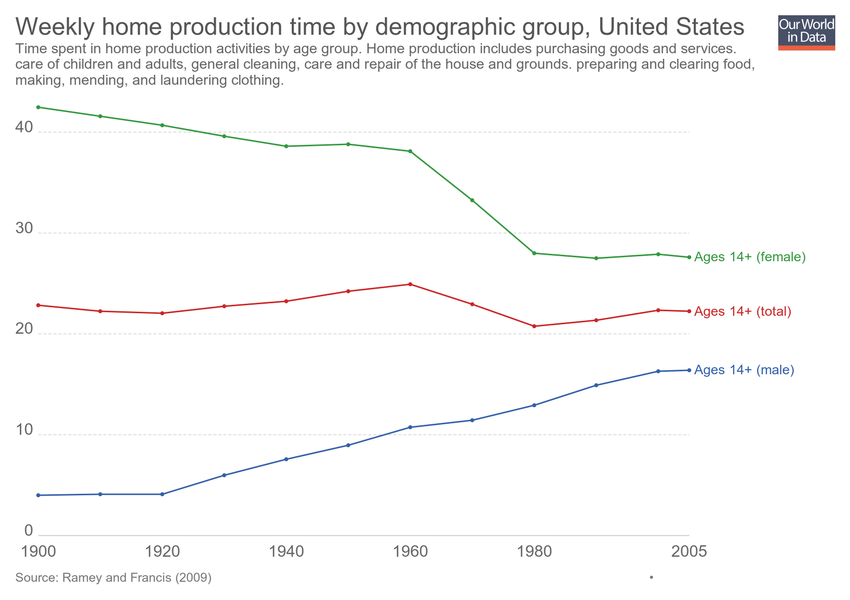
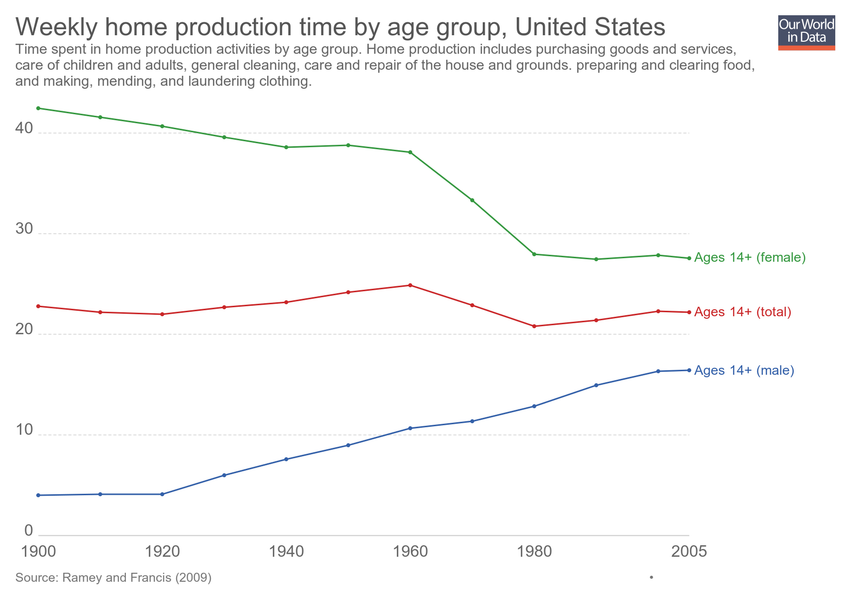
Updating chart weekly-home-production-time-by-demographic-group-united-states

diff --git a/grapher/weekly-home-production-time-by-demographic-group-united-states.html b/grapher/weekly-home-production-time-by-demographic-group-united-states.html
@@ -1,4 +1,4 @@
-<!doctype html><html><head><meta name="viewport" content="width=device-width, initial-scale=1" /><title>Weekly home production time by demographic group, United States - Our World in Data</title><meta name="description" content="Time spent in home production activities by age group. Home production includes purchasing goods and services. care of children and adults, general cleaning, care and repair of the house and grounds. preparing and clearing food, making, mending, and laundering clothing. " /><link rel="canonical" href="https://ourworldindata.org/grapher/weekly-home-production-time-by-demographic-group-united-states" /><meta property="fb:app_id" content="1149943818390250" /><meta property="og:url" content="https://ourworldindata.org/grapher/weekly-home-production-time-by-demographic-group-united-states" /><meta property="og:title" content="Weekly home production time by demographic group, United States" /><meta property="og:description" content="Time spent in home production activities by age group. Home production includes purchasing goods and services. care of children and adults, general cleaning, care and repair of the house and grounds. preparing and clearing food, making, mending, and laundering clothing. " /><meta property="og:image" content="https://ourworldindata.org/grapher/exports/weekly-home-production-time-by-demographic-group-united-states.png?v=1" /><meta property="og:image:width" content="850" /><meta property="og:image:height" content="600" /><meta property="og:site_name" content="Our World in Data" /><meta name="twitter:card" content="summary_large_image" /><meta name="twitter:site" content="@OurWorldInData" /><meta name="twitter:creator" content="@OurWorldInData" /><meta name="twitter:title" content="Weekly home production time by demographic group, United States" /><meta name="twitter:description" content="Time spent in home production activities by age group. Home production includes purchasing goods and services. care of children and adults, general cleaning, care and repair of the house and grounds. preparing and clearing food, making, mending, and laundering clothing. " /><meta name="twitter:image" content="https://ourworldindata.org/grapher/exports/weekly-home-production-time-by-demographic-group-united-states.png?v=1" /><style>
+<!doctype html><html><head><meta name="viewport" content="width=device-width, initial-scale=1" /><title>Weekly home production time by age group, United States - Our World in Data</title><meta name="description" content="Time spent in home production activities by age group. Home production includes purchasing goods and services, care of children and adults, general cleaning, care and repair of the house and grounds. preparing and clearing food, and making, mending, and laundering clothing. " /><link rel="canonical" href="https://ourworldindata.org/grapher/weekly-home-production-time-by-demographic-group-united-states" /><meta property="fb:app_id" content="1149943818390250" /><meta property="og:url" content="https://ourworldindata.org/grapher/weekly-home-production-time-by-demographic-group-united-states" /><meta property="og:title" content="Weekly home production time by age group, United States" /><meta property="og:description" content="Time spent in home production activities by age group. Home production includes purchasing goods and services, care of children and adults, general cleaning, care and repair of the house and grounds. preparing and clearing food, and making, mending, and laundering clothing. " /><meta property="og:image" content="https://ourworldindata.org/grapher/exports/weekly-home-production-time-by-demographic-group-united-states.png?v=4" /><meta property="og:image:width" content="850" /><meta property="og:image:height" content="600" /><meta property="og:site_name" content="Our World in Data" /><meta name="twitter:card" content="summary_large_image" /><meta name="twitter:site" content="@OurWorldInData" /><meta name="twitter:creator" content="@OurWorldInData" /><meta name="twitter:title" content="Weekly home production time by age group, United States" /><meta name="twitter:description" content="Time spent in home production activities by age group. Home production includes purchasing goods and services, care of children and adults, general cleaning, care and repair of the house and grounds. preparing and clearing food, and making, mending, and laundering clothing. " /><meta name="twitter:image" content="https://ourworldindata.org/grapher/exports/weekly-home-production-time-by-demographic-group-united-states.png?v=4" /><style>
         html, body {
             height: 100%;
             margin: 0;
@@ -20,8 +20,8 @@
         }
     </style><noscript><style>
                     figure { display: none !important; }
-                </style></noscript><link rel="stylesheet" href="https://ourworldindata.org/grapher/assets/commons.bundle.e61261d2881056c44b1d.css" /><link rel="preload" href="/grapher/data/variables/97538.json?v=1" as="fetch" crossorigin /></head><body class="singleChart"><figure data-grapher-src="/grapher/weekly-home-production-time-by-demographic-group-united-states"></figure><noscript id="fallback"><img src="/grapher/exports/weekly-home-production-time-by-demographic-group-united-states.svg" /><p>Interactive visualization requires JavaScript</p></noscript><script src="https://cdn.polyfill.io/v2/polyfill.min.js?features=es6,fetch"></script><script src="https://ourworldindata.org/grapher/assets/commons.bundle.e61261d2881056c44b1d.js"></script><script src="https://ourworldindata.org/grapher/assets/charts.bundle.e61261d2881056c44b1d.js"></script><script>
-        var jsonConfig = {"map":{"projection":"World","colorSchemeLabels":[],"colorSchemeValues":[],"customNumericColors":[],"customCategoryColors":{},"customCategoryLabels":{},"customHiddenCategories":{}},"tab":"chart","slug":"weekly-home-production-time-by-demographic-group-united-states","type":"LineChart","title":"Weekly home production time by demographic group, United States","xAxis":{"scaleType":"linear"},"yAxis":{"min":0,"scaleType":"linear"},"version":1,"subtitle":"Time spent in home production activities by age group. Home production includes purchasing goods and services. care of children and adults, general cleaning, care and repair of the house and grounds. preparing and clearing food, making, mending, and laundering clothing. ","hasMapTab":false,"stackMode":"absolute","dimensions":[{"display":{},"property":"y","variableId":97538}],"isAutoSlug":true,"hasChartTab":true,"isPublished":true,"selectedData":[{"index":0,"entityId":37579},{"index":0,"entityId":37578},{"index":0,"entityId":37580}],"addCountryMode":"add-country","id":2826};
+                </style></noscript><link rel="stylesheet" href="https://ourworldindata.org/grapher/assets/commons.bundle.e61261d2881056c44b1d.css" /><link rel="preload" href="/grapher/data/variables/97538.json?v=4" as="fetch" crossorigin /></head><body class="singleChart"><figure data-grapher-src="/grapher/weekly-home-production-time-by-demographic-group-united-states"></figure><noscript id="fallback"><img src="/grapher/exports/weekly-home-production-time-by-demographic-group-united-states.svg" /><p>Interactive visualization requires JavaScript</p></noscript><script src="https://cdn.polyfill.io/v2/polyfill.min.js?features=es6,fetch"></script><script src="https://ourworldindata.org/grapher/assets/commons.bundle.e61261d2881056c44b1d.js"></script><script src="https://ourworldindata.org/grapher/assets/charts.bundle.e61261d2881056c44b1d.js"></script><script>
+        var jsonConfig = {"id":2826,"map":{"projection":"World","colorSchemeLabels":[],"colorSchemeValues":[],"customNumericColors":[],"customCategoryColors":{},"customCategoryLabels":{},"customHiddenCategories":{}},"tab":"chart","slug":"weekly-home-production-time-by-demographic-group-united-states","type":"LineChart","title":"Weekly home production time by age group, United States","xAxis":{"scaleType":"linear"},"yAxis":{"min":0,"scaleType":"linear"},"version":4,"subtitle":"Time spent in home production activities by age group. Home production includes purchasing goods and services, care of children and adults, general cleaning, care and repair of the house and grounds. preparing and clearing food, and making, mending, and laundering clothing. ","hasMapTab":false,"stackMode":"absolute","dimensions":[{"display":{},"property":"y","variableId":97538}],"hasChartTab":true,"isPublished":true,"selectedData":[{"index":0,"entityId":37579},{"index":0,"entityId":37578},{"index":0,"entityId":37580}],"addCountryMode":"add-country"};
         var figure = document.getElementsByTagName("figure")[0];
         try {
             window.App = {};
